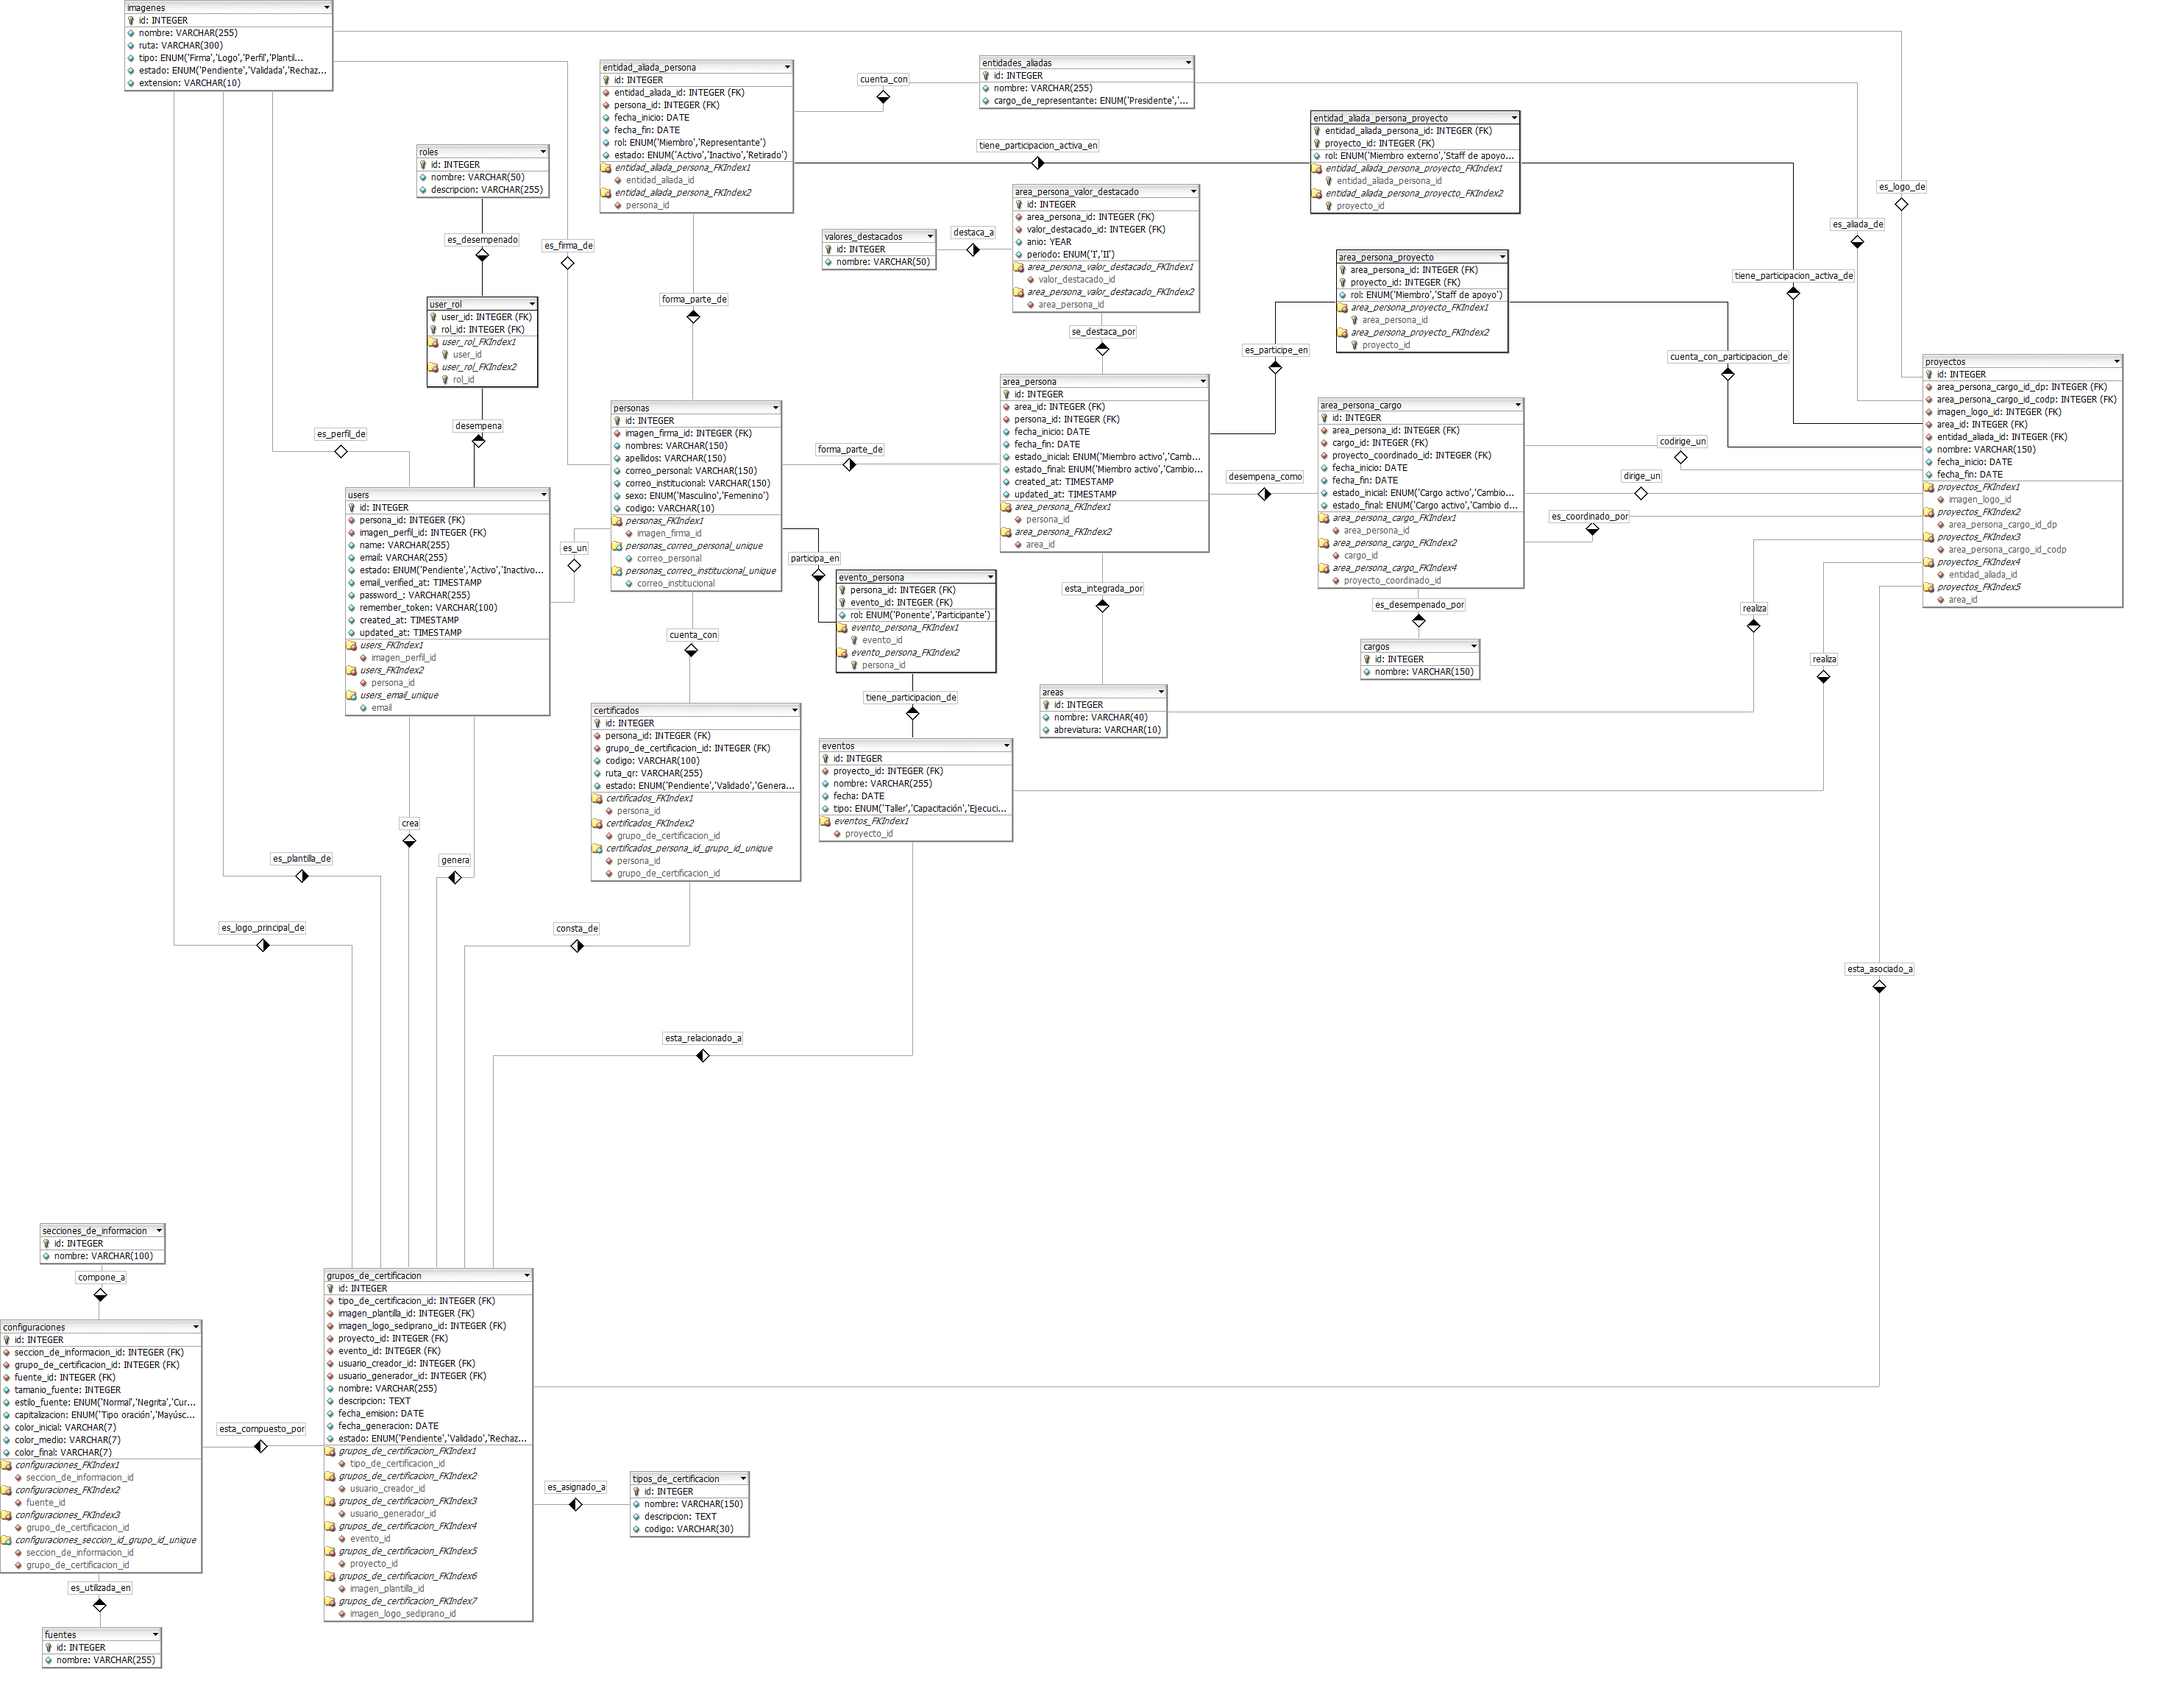
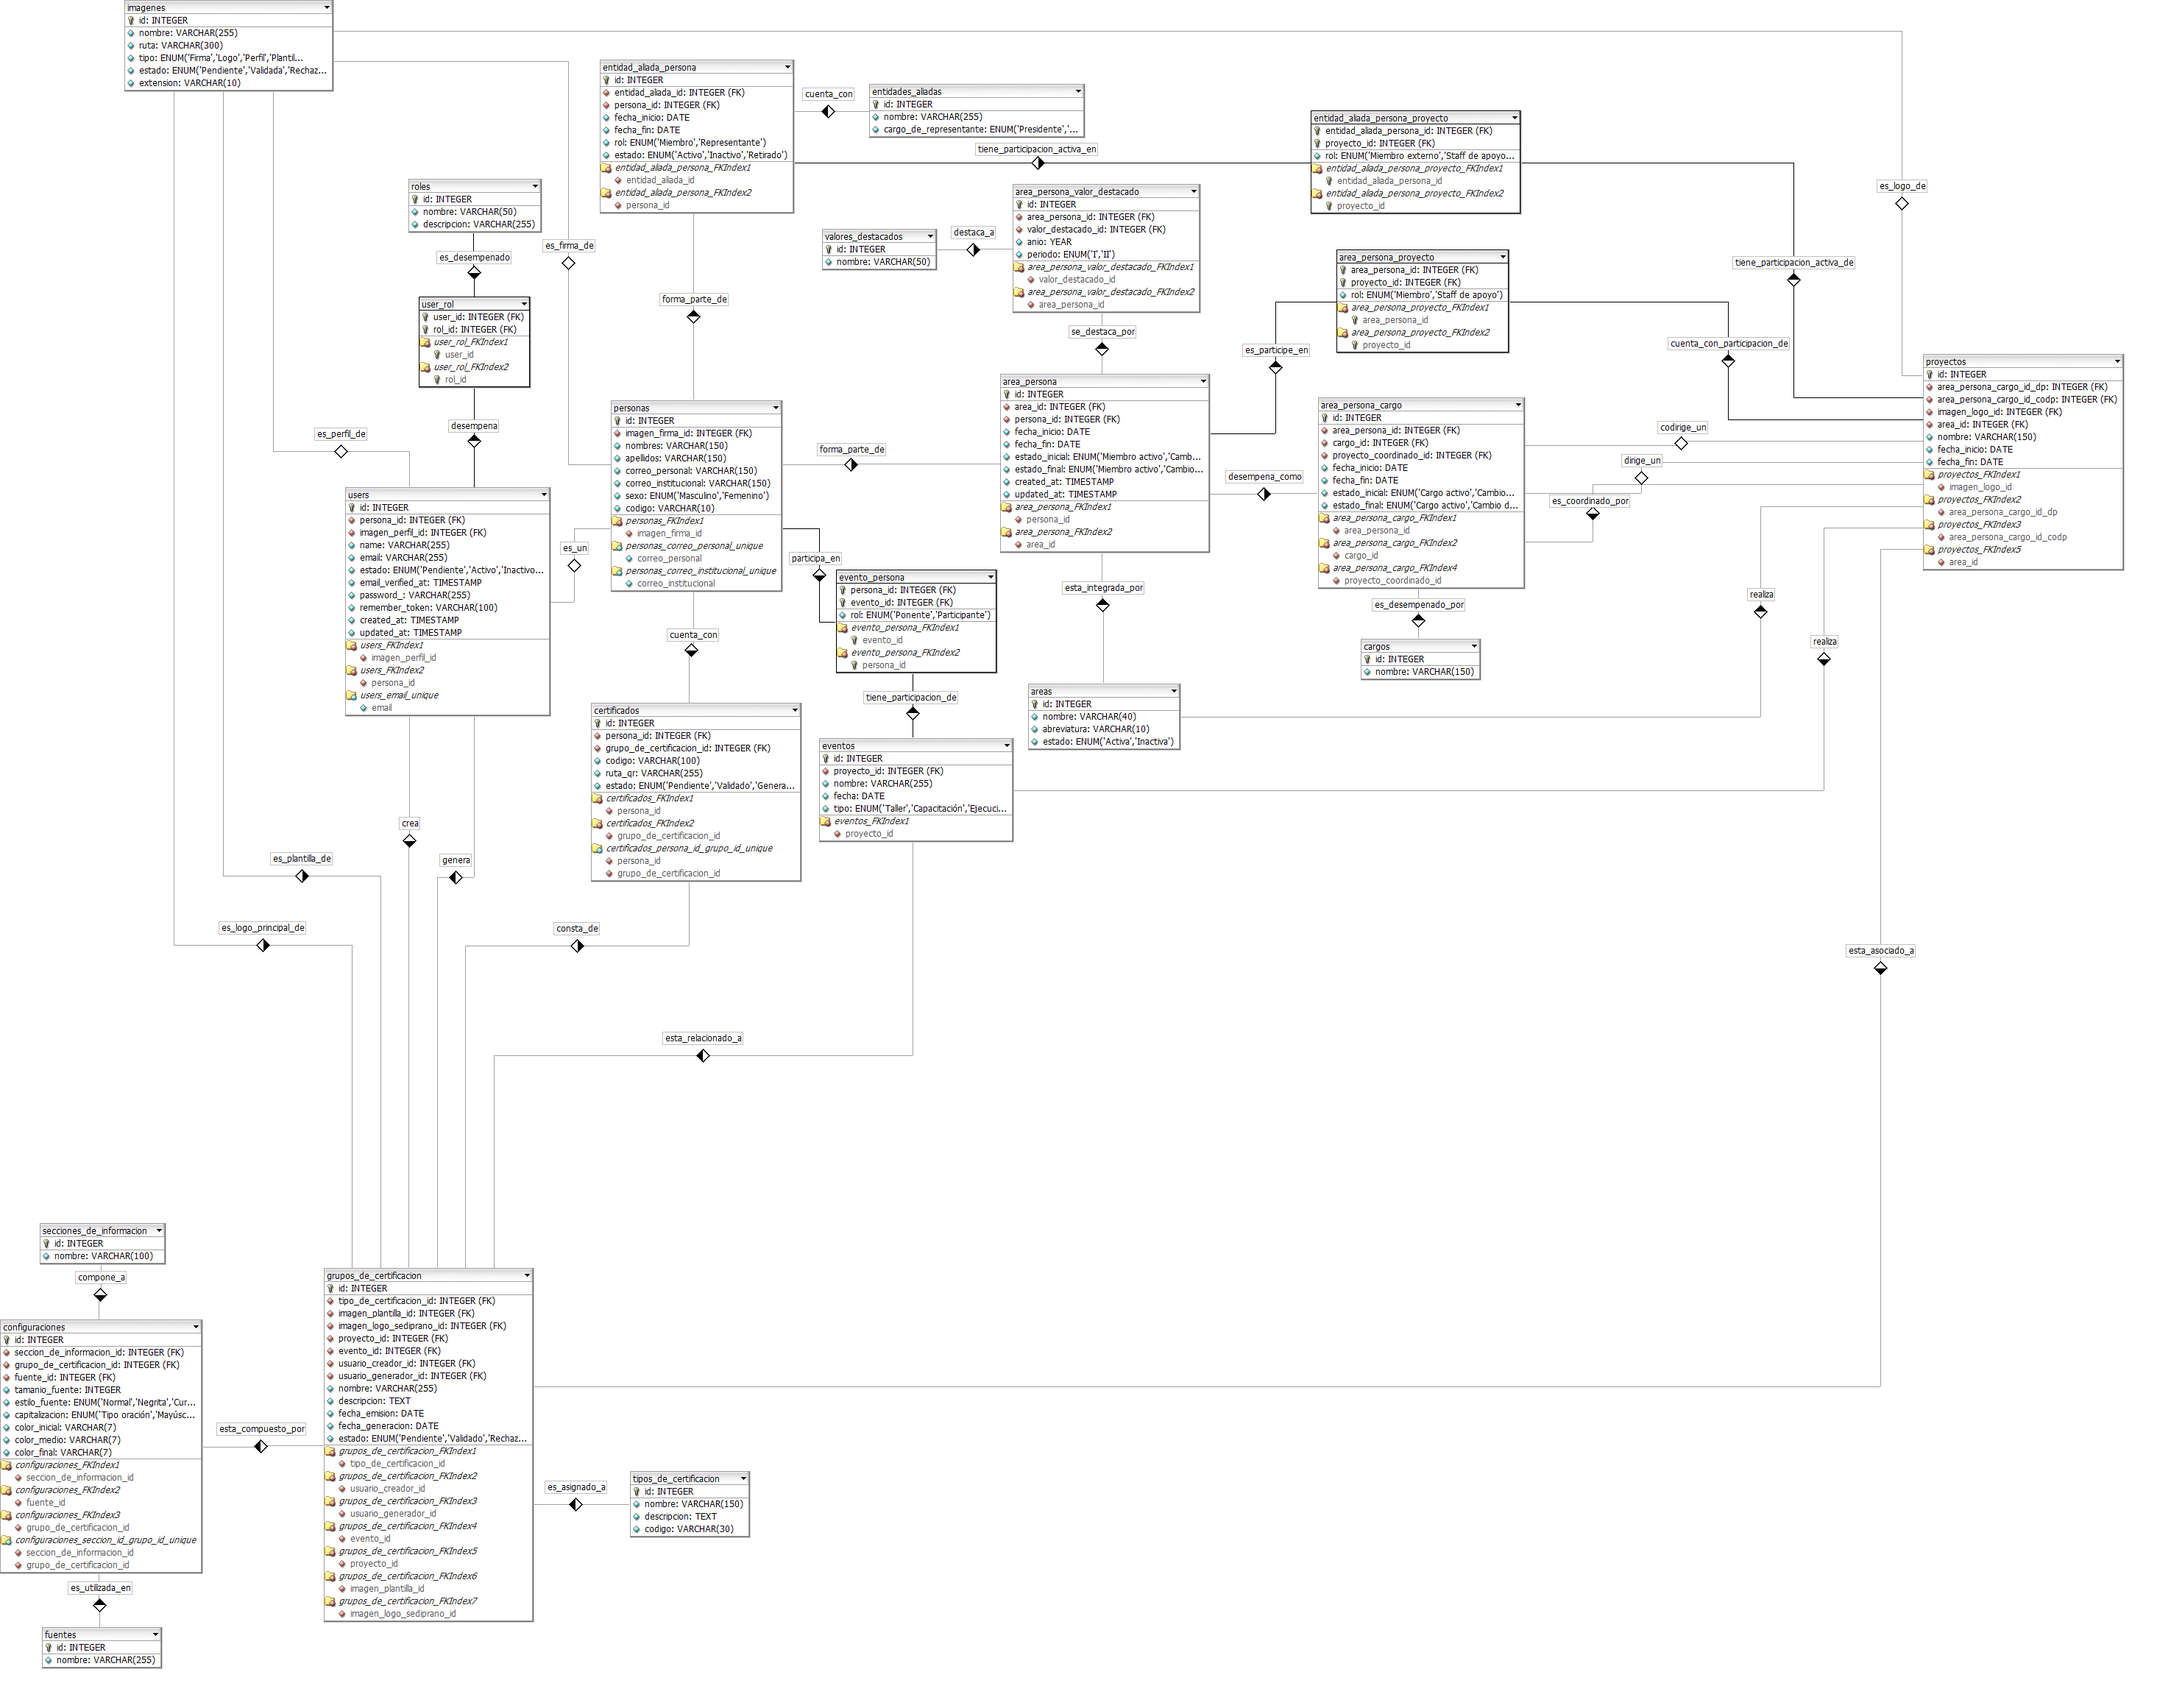
fix: Eliminación de relación entre tabla  entidades_aliadas y proyectos

diff --git a/app/Models/Proyecto.php b/app/Models/Proyecto.php
@@ -30,7 +30,6 @@ class Proyecto extends Model
         'area_persona_cargo_id_codp',
         'imagen_logo_id',
         'area_id',
-        'entidad_aliada_id',
         'nombre',
         'fecha_inicio',
         'fecha_fin'
@@ -96,12 +95,6 @@ class Proyecto extends Model
         return $this->belongsToMany(EntidadAliadaPersona::class, 'entidad_aliada_persona_proyecto', 'proyecto_id', 'entidad_aliada_persona_id')
             ->withPivot('rol')
             ->withTimestamps();
-    }
-
-    //Relación muchos a uno con EntidadAliada
-    public function entidadAliada(): BelongsTo
-    {
-        return $this->belongsTo(EntidadAliada::class, 'entidad_aliada_id');//'entidad_aliada_id' es la clave foránea en la tabla proyectos
     }
 
     //Relacion uno a uno con Imagen(imagen_logo_id)

diff --git a/database/migrations/2025_08_11_202519_create_proyectos_table.php b/database/migrations/2025_08_11_202519_create_proyectos_table.php
@@ -32,12 +32,6 @@ return new class extends Migration
                 ->constrained('areas')
                 ->cascadeOnUpdate()
                 ->nullOnDelete();
-                
-            $table->foreignId('entidad_aliada_id')
-                ->nullable()
-                ->constrained('entidades_aliadas')
-                ->cascadeOnUpdate()
-                ->nullOnDelete();
             $table->string('nombre',150)->unique();
             $table->date('fecha_inicio');
             $table->date('fecha_fin')->nullable();

diff --git a/app/Models/EntidadAliada.php b/app/Models/EntidadAliada.php
@@ -42,10 +42,4 @@ class EntidadAliada extends Model
     {
         return $this->hasMany(EntidadAliadaPersona::class, 'entidad_aliada_id');
     }
-
-    //Relación uno a muchos con Proyecto
-    public function proyectos() : HasMany
-    {
-        return $this->hasMany(Proyecto::class, 'entidad_aliada_id');
-    }
 }
